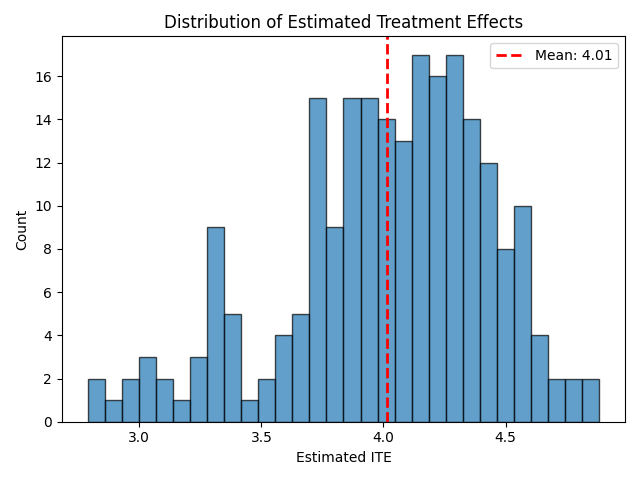
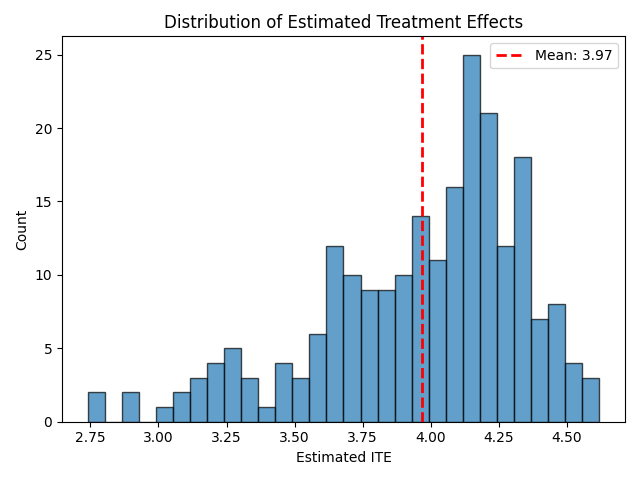
evaluate using validation set

diff --git a/main.py b/main.py
@@ -1,7 +1,15 @@
 import pandas as pd
 from sklearn.model_selection import train_test_split
 
-from src.config import DATA_PATH, FIGURE_DIR, METRICS_DIR, RANDOM_STATE, TEST_SIZE, MLFLOW_EXPERIMENT_NAME
+from src.config import (
+    DATA_PATH,
+    FIGURE_DIR,
+    METRICS_DIR,
+    RANDOM_STATE,
+    TEST_SIZE,
+    VALIDATION_SIZE,
+    MLFLOW_EXPERIMENT_NAME
+)
 from src.data import load_data, get_features_and_target
 from src.preprocessing import preprocess_data
 from src.baselines import get_naive_ate, regression_adjustment_ate
@@ -22,36 +30,45 @@ def main():
     METRICS_DIR.mkdir(parents=True, exist_ok=True)
 
     data = load_data(DATA_PATH, header=0)
-    # Get features and target
     X, T, Y, true_ite = get_features_and_target(data)
 
-    # Split data into training and testing sets
-    X_train, X_test, T_train, T_test, Y_train, Y_test, true_ite_train, true_ite_test = train_test_split(
-        X, T, Y, true_ite, test_size=TEST_SIZE, random_state=RANDOM_STATE
+    # Hold out the test set first so it is only used for final evaluation.
+    X_train_val, X_test, T_train_val, T_test, Y_train_val, Y_test, true_ite_train_val, true_ite_test = train_test_split(
+        X,
+        T,
+        Y,
+        true_ite,
+        test_size=TEST_SIZE,
+        random_state=RANDOM_STATE,
+        stratify=T
     )
 
-    X_train_processed, X_test_processed = preprocess_data(X_train=X_train, X_test=X_test)
-    
-    true_ate = true_ite_test.mean()
-    
-    # Baseline ATE estimates
-    naive_ate = get_naive_ate(Y_train, T_train)
-    ra_ate = regression_adjustment_ate(
-        X_train_processed,
-        X_test_processed,
-        T_train,
-        Y_train,
-        T_test
+    # Split the remaining data into train and validation for model selection.
+    X_train, X_validation, T_train, T_validation, Y_train, Y_validation, true_ite_train, true_ite_validation = train_test_split(
+        X_train_val,
+        T_train_val,
+        Y_train_val,
+        true_ite_train_val,
+        test_size=VALIDATION_SIZE,
+        random_state=RANDOM_STATE,
+        stratify=T_train_val
     )
 
-    print(f"Naive ATE: {naive_ate:.4f}")
-    print(f"Regression Adjustment ATE: {ra_ate:.4f}")
+    X_train_processed, X_test_processed, X_validation_processed = preprocess_data(
+        X_train=X_train,
+        X_test=X_test,
+        X_validation=X_validation
+    )
+
+    true_ate_validation = true_ite_validation.mean()
+    mu0_validation = data.loc[X_validation.index, "mu0"]
+    mu1_validation = data.loc[X_validation.index, "mu1"]
 
     # ============================================
-    # Multiple DML Estimators Comparison
+    # Validation Model Selection
     # ============================================
     print("\n" + "="*50)
-    print("Multiple DML Estimators Comparison")
+    print("Validation Model Selection")
     print("="*50)
     
     models_dict = get_all_models()
@@ -61,36 +78,73 @@ def main():
         print(f"\nTraining {model_name}...")
         trained_model = train_model(model, X_train_processed, T_train, Y_train)
         
-        est_ate = trained_model.ate(X_test_processed)
-        est_ite = trained_model.effect(X_test_processed)
+        est_ate = trained_model.ate(X_validation_processed)
+        est_ite = trained_model.effect(X_validation_processed)
+        threshold_policy_validation = get_threshold_policy(est_ite, threshold=est_ite.mean() )
         
-        ate_err = ate_error(est_ate, true_ate)
-        pehe_val = pehe(est_ite, true_ite_test)
+        ate_err = ate_error(est_ate, true_ate_validation)
+        pehe_val = pehe(est_ite, true_ite_validation)
+        policy_val = (
+            threshold_policy_validation * mu1_validation
+            + (1 - threshold_policy_validation) * mu0_validation
+        ).mean()
         
         comparison_results.append({
             "Model": model_name,
+            "Split": "validation",
             "Estimated ATE": est_ate,
             "ATE Error": ate_err,
-            "PEHE": pehe_val
+            "PEHE": pehe_val,
+            "Threshold Policy Value": policy_val
         })
         
-        print(f"  ATE: {est_ate:.4f}, ATE Error: {ate_err:.4f}, PEHE: {pehe_val:.4f}")
+        print(
+            f"  Validation ATE: {est_ate:.4f}, "
+            f"ATE Error: {ate_err:.4f}, "
+            f"PEHE: {pehe_val:.4f}, "
+            f"Threshold Policy Value: {policy_val:.4f}"
+        )
     
     # Create comparison DataFrame
     comparison_df = pd.DataFrame(comparison_results)
-    comparison_df = comparison_df.sort_values("PEHE")
-    print("\n--- Model Comparison (sorted by PEHE) ---")
+    comparison_df = comparison_df.sort_values(
+        ["PEHE", "Threshold Policy Value"],
+        ascending=[True, False]
+    )
+    print("\n--- Validation Model Comparison (sorted by PEHE) ---")
     print(comparison_df.to_string(index=False))
     
-    # Find best model
+    # Select the best model on validation, then retrain it on train
     best_model_name = comparison_df.iloc[0]["Model"]
-    print(f"\nBest Model: {best_model_name} (lowest PEHE)")
-    
-    # Use best model for policy evaluation
+    print(f"\nSelected Model: {best_model_name} (lowest validation PEHE)")
+
+    true_ate = true_ite_test.mean()
+
+    # Baseline ATE estimates on the final held-out test set.
+    naive_ate = get_naive_ate(Y_train, T_train)
+    ra_ate = regression_adjustment_ate(
+        X_train_processed,
+        X_test_processed,
+        T_train,
+        Y_train,
+        T_test
+    )
+
+    print("\n" + "="*50)
+    print("Final Test Evaluation")
+    print("="*50)
+    print(f"Naive ATE: {naive_ate:.4f}")
+    print(f"Regression Adjustment ATE: {ra_ate:.4f}")
+
     best_model = get_model(best_model_name)
     best_model = train_model(best_model, X_train_processed, T_train, Y_train)
     dml_ate = best_model.ate(X_test_processed)
     dml_ite = best_model.effect(X_test_processed) 
+    print(
+        f"Selected DML Test ATE: {dml_ate:.4f}, "
+        f"ATE Error: {ate_error(dml_ate, true_ate):.4f}, "
+        f"PEHE: {pehe(dml_ite, true_ite_test):.4f}"
+    )
     
     # Evaluate policies based on estimated ITE
     positive_policy = get_positive_policy(dml_ite)
@@ -100,9 +154,27 @@ def main():
     mu0_test = data.loc[X_test.index, "mu0"]
     mu1_test = data.loc[X_test.index, "mu1"]
 
-    evaluate_positive_policy = evaluate_policies(positive_policy, T_test, mu0_test, mu1_test)
-    evaluate_fraction_policy = evaluate_policies(fraction_policy, T_test, mu0_test, mu1_test)
-    evaluate_threshold_policy = evaluate_policies(threshold_policy, T_test, mu0_test, mu1_test)
+    evaluate_positive_policy = evaluate_policies(
+        positive_policy,
+        T_test,
+        mu0_test,
+        mu1_test,
+        random_state=RANDOM_STATE
+    )
+    evaluate_fraction_policy = evaluate_policies(
+        fraction_policy,
+        T_test,
+        mu0_test,
+        mu1_test,
+        random_state=RANDOM_STATE
+    )
+    evaluate_threshold_policy = evaluate_policies(
+        threshold_policy,
+        T_test,
+        mu0_test,
+        mu1_test,
+        random_state=RANDOM_STATE
+    )
     
     metrics = pd.DataFrame({
         "Metric": [
@@ -140,9 +212,11 @@ def main():
     plot_ite_distribution(dml_ite, FIGURE_DIR / "ite_distribution.png")
     plot_ite_scatter(true_ite_test, dml_ite, FIGURE_DIR / "ite_scatter.png")
     plot_policy_comparison(policy_values, FIGURE_DIR / "policy_comparison.png")
-    plot_model_comparison(comparison_df, FIGURE_DIR / "model_comparison.png")
-    
-    # Save evaluation results    evaluation_results.to_csv(METRICS_DIR / "policy_evaluation.csv")   
+    plot_model_comparison(
+        comparison_df,
+        FIGURE_DIR / "model_comparison.png",
+        true_ate=true_ate_validation
+    )
 
     metrics.to_csv(METRICS_DIR / "model_metrics.csv", index=False)
     comparison_df.to_csv(METRICS_DIR / "model_comparison.csv", index=False)
@@ -164,12 +238,14 @@ def main():
     baseline_results = {
         "naive_ate": naive_ate,
         "ra_ate": ra_ate,
-        "dml_ate": dml_ate
+        "dml_ate": dml_ate,
+        "dml_pehe": pehe(dml_ite, true_ite_test)
     }
     
     # Model parameters for logging
     model_params = {
         "test_size": TEST_SIZE,
+        "validation_size": VALIDATION_SIZE,
         "random_state": RANDOM_STATE,
         "n_estimators": 100,
         "max_depth": 5
@@ -192,17 +268,19 @@ def main():
 
     best_runs = compare_best_models(
         experiment_name=MLFLOW_EXPERIMENT_NAME,
-        metric="best_model_pehe"
+        metric="best_model_validation_pehe"
     )
     best_run_columns = [
         "run_id",
-        "metrics.best_model_pehe",
-        "metrics.best_model_ate_error",
-        "params.best_model"
+        "metrics.best_model_validation_pehe",
+        "metrics.best_model_validation_ate_error",
+        "metrics.dml_test_pehe",
+        "params.best_model",
+        "params.model_selection_split"
     ]
 
-    print("\n--- Best MLflow Runs (sorted by best model PEHE) ---")
+    print("\n--- Best MLflow Runs (sorted by validation PEHE) ---")
     print(best_runs[best_run_columns].to_string(index=False))
     
-
-if __name__ == "__main__":    main()    
+if __name__ == "__main__":
+    main()

diff --git a/src/plots.py b/src/plots.py
@@ -44,13 +44,14 @@ def plot_policy_comparison(values_dict, save_path):
     plt.savefig(save_path)
     plt.close()
 
-def plot_model_comparison(comparison_df, save_path):
+def plot_model_comparison(comparison_df, save_path, true_ate=None):
     """
     Plot comparison of multiple DML estimators.
     
     Args:
         comparison_df: DataFrame with columns ['Model', 'Estimated ATE', 'ATE Error', 'PEHE']
         save_path: Path to save the figure
+        true_ate: Optional true ATE reference line for the evaluated split
     """
     fig, axes = plt.subplots(1, 3, figsize=(15, 5))
     
@@ -78,11 +79,11 @@ def plot_model_comparison(comparison_df, save_path):
         ax2.text(bar.get_x() + bar.get_width()/2., height, f'{height:.3f}', 
                 ha='center', va='bottom', fontsize=8)
     
-    # Plot Estimated ATE vs True ATE
+    # Plot Estimated ATE vs reference ATE
     ax3 = axes[2]
-    true_ate = comparison_df['Estimated ATE'].mean()  # Placeholder - actual true ATE would be passed
     ax3.bar(models, comparison_df['Estimated ATE'].values, color='seagreen', edgecolor='black', alpha=0.7, label='Estimated')
-    ax3.axhline(y=true_ate, color='red', linestyle='--', linewidth=2, label='Mean Estimate')
+    if true_ate is not None:
+        ax3.axhline(y=true_ate, color='red', linestyle='--', linewidth=2, label='True ATE')
     ax3.set_ylabel('Estimated ATE')
     ax3.set_title('Estimated ATE by Model')
     ax3.tick_params(axis='x', rotation=45)

diff --git a/src/mlflow_tracking.py b/src/mlflow_tracking.py
@@ -151,6 +151,8 @@ def log_full_experiment(
         mlflow.log_metric("naive_ate", baseline_results["naive_ate"])
         mlflow.log_metric("ra_ate", baseline_results["ra_ate"])
         mlflow.log_metric("dml_ate", baseline_results["dml_ate"])
+        if "dml_pehe" in baseline_results:
+            mlflow.log_metric("dml_test_pehe", baseline_results["dml_pehe"])
         
         # Log baseline errors
         mlflow.log_metric("naive_ate_error", abs(baseline_results["naive_ate"] - true_ate))
@@ -160,8 +162,14 @@ def log_full_experiment(
         # Log best model info
         best_model = comparison_df.iloc[0]
         mlflow.log_param("best_model", best_model["Model"])
+        if "Split" in best_model:
+            mlflow.log_param("model_selection_split", best_model["Split"])
         mlflow.log_metric("best_model_ate_error", best_model["ATE Error"])
         mlflow.log_metric("best_model_pehe", best_model["PEHE"])
+        mlflow.log_metric("best_model_validation_ate_error", best_model["ATE Error"])
+        mlflow.log_metric("best_model_validation_pehe", best_model["PEHE"])
+        if "Positive Policy Value" in best_model:
+            mlflow.log_metric("best_model_validation_positive_policy_value", best_model["Positive Policy Value"])
 
         if fitted_best_model is not None:
             mlflow.pyfunc.log_model(

diff --git a/src/preprocessing.py b/src/preprocessing.py
@@ -1,7 +1,7 @@
 import pandas as pd
 from sklearn.preprocessing import StandardScaler
 
-def preprocess_data(X_train, X_test):
+def preprocess_data(X_train, X_test, X_validation=None):
     
     # Separate continuous and binary columns
     continuous_cols = X_train.select_dtypes(include=["float", "float64"]).columns.tolist()
@@ -19,16 +19,23 @@ def preprocess_data(X_train, X_test):
         columns=continuous_cols,
         index=X_test.index
     )
+
+    X_validation_cont = pd.DataFrame(
+        scaler.transform(X_validation[continuous_cols]),
+        columns=continuous_cols,
+        index=X_validation.index
+    )
     
     # Combine the scaled continuous features with the binary features
     X_train_processed = pd.concat([X_train_cont, X_train[binary_cols]], axis=1)
     X_test_processed = pd.concat([X_test_cont, X_test[binary_cols]], axis=1)
+    X_validation_processed = pd.concat([X_validation_cont, X_validation[binary_cols]], axis=1)
 
     # Ensure the same column order in test set as in training set
     X_test_processed = X_test_processed[X_train_processed.columns]
+    X_validation_processed = X_validation_processed[X_train_processed.columns]
 
-    return X_train_processed, X_test_processed
+    return X_train_processed, X_test_processed, X_validation_processed
     
-
 
 

diff --git a/src/evaluation.py b/src/evaluation.py
@@ -20,10 +20,11 @@ def policy_value(policy, mu0, mu1):
     outcome = policy * mu1 + (1 - policy) * mu0
     return np.mean(outcome)
 
-def evaluate_policies(policy, T_test, mu0_test, mu1_test):  
+def evaluate_policies(policy, T_test, mu0_test, mu1_test, random_state=None):  
     # Create a random policy for comparison
     # The random policy assigns treatment with a 50% probability, independent of the predicted effects
-    random_policy = np.random.binomial(1, 0.5, size=len(policy))
+    rng = np.random.default_rng(random_state)
+    random_policy = rng.binomial(1, 0.5, size=len(policy))
 
     results = {
         "Observed": policy_value(T_test, mu0_test, mu1_test),

diff --git a/src/config.py b/src/config.py
@@ -9,5 +9,6 @@ METRICS_DIR = OUTPUT_DIR / "metrics"
 
 RANDOM_STATE = 42
 TEST_SIZE = 0.3
+VALIDATION_SIZE = 0.2
 
 MLFLOW_EXPERIMENT_NAME = "DML_Causal_Inference_v5"
